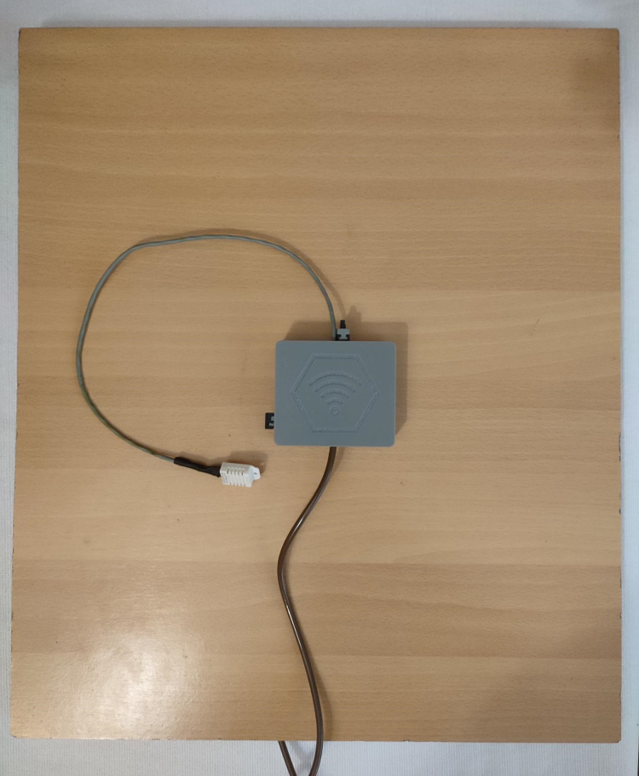
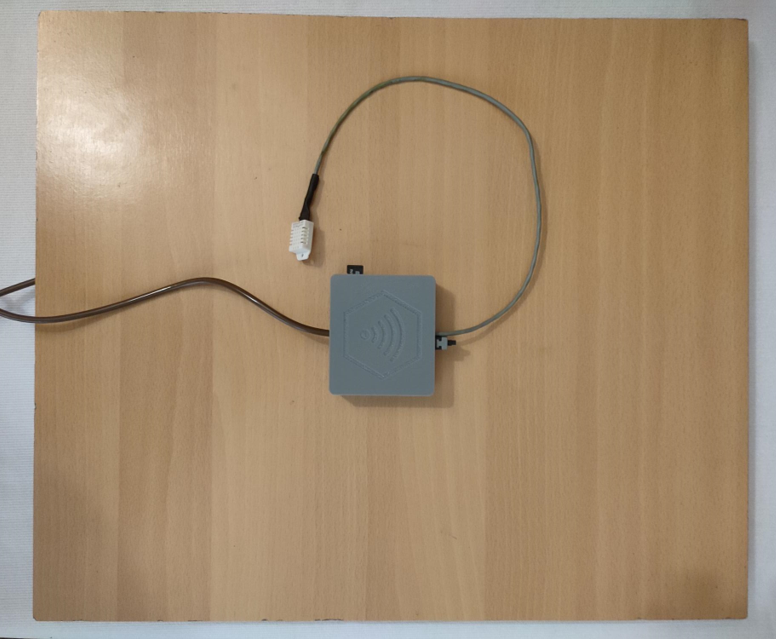
Update images

diff --git a/README.md b/README.md
@@ -48,18 +48,21 @@ Two custom-printed parts are used in the build:
 - **Enclosure**: a snap-fit case that holds the battery, the development board, and the microSD module on a mounting plate above it. The lid and bottom clip onto the middle section without screws, and the sides have cutouts for the USB port, the microSD slot, and the sensor/HX711 cabling. The 3D model files are included in `3D models/`.
 
 ![alt text](images/3D_model.png)
-![alt text](images/box.png)
 
 ## Assembly
 
 1. Cut a wooden base plate sized to fit under the hive.
-2. Mount each load cell to the underside of the base plate using a printed holder (see [3D Printed Parts](#3d-printed-parts)) at each corner, rather than screwing it directly to the wood — the holder both provides mounting points and leaves the small clearance the load cell needs to flex under load.
-3. Wire the four load cells together into a Wheatstone bridge (matching wire colors paired up, red wires left free) and connect the bridge's free leads to the HX711 module, then wire the HX711 and DHT22 to the board as described above.
+2. Mount each load cell to the underside of the base plate using a printed holder (see [3D Printed Parts](#3d-printed-parts)) at each corner, rather than screwing it directly to the wood - the holder provides mounting points and leaves the small clearance the load cell needs to flex under load.
+3. Wire the four load cells together into a Wheatstone bridge (matching wire colors paired up, red wires left free) and connect the bridge's free leads to the HX711 module, then wire the HX711 and DHT22 to the board as described [above](#wiring).
    ![alt text](images/base.png)
 4. Assemble the enclosure: fit the board and microSD module onto the mounting plate, place the battery underneath, and snap the lid and bottom onto the middle section.
-   ![alt text](images/installation.png)
-   ![alt text](images/installation2.png)
-   ![alt text](images/device.png)
+<table>
+  <tr>
+    <td><img src="images/installation.png" width="250"></td>
+    <td><img src="images/installation2.png" width="250"></td>
+    <td><img src="images/device.png" width="250"></td>
+  </tr>
+</table>
 
 ## Repository Structure
 
